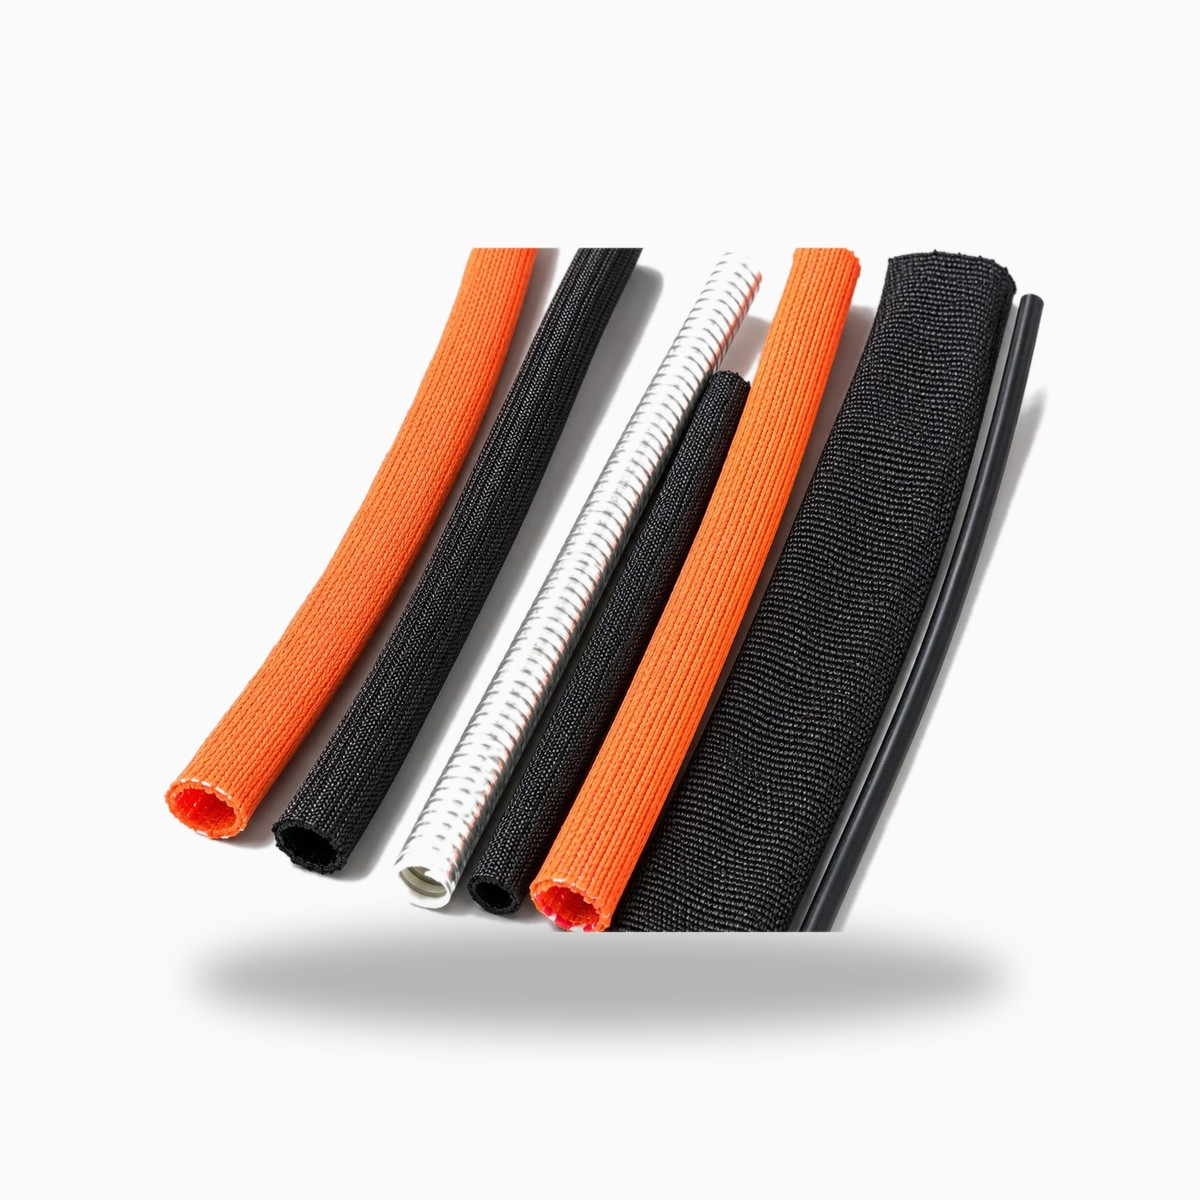
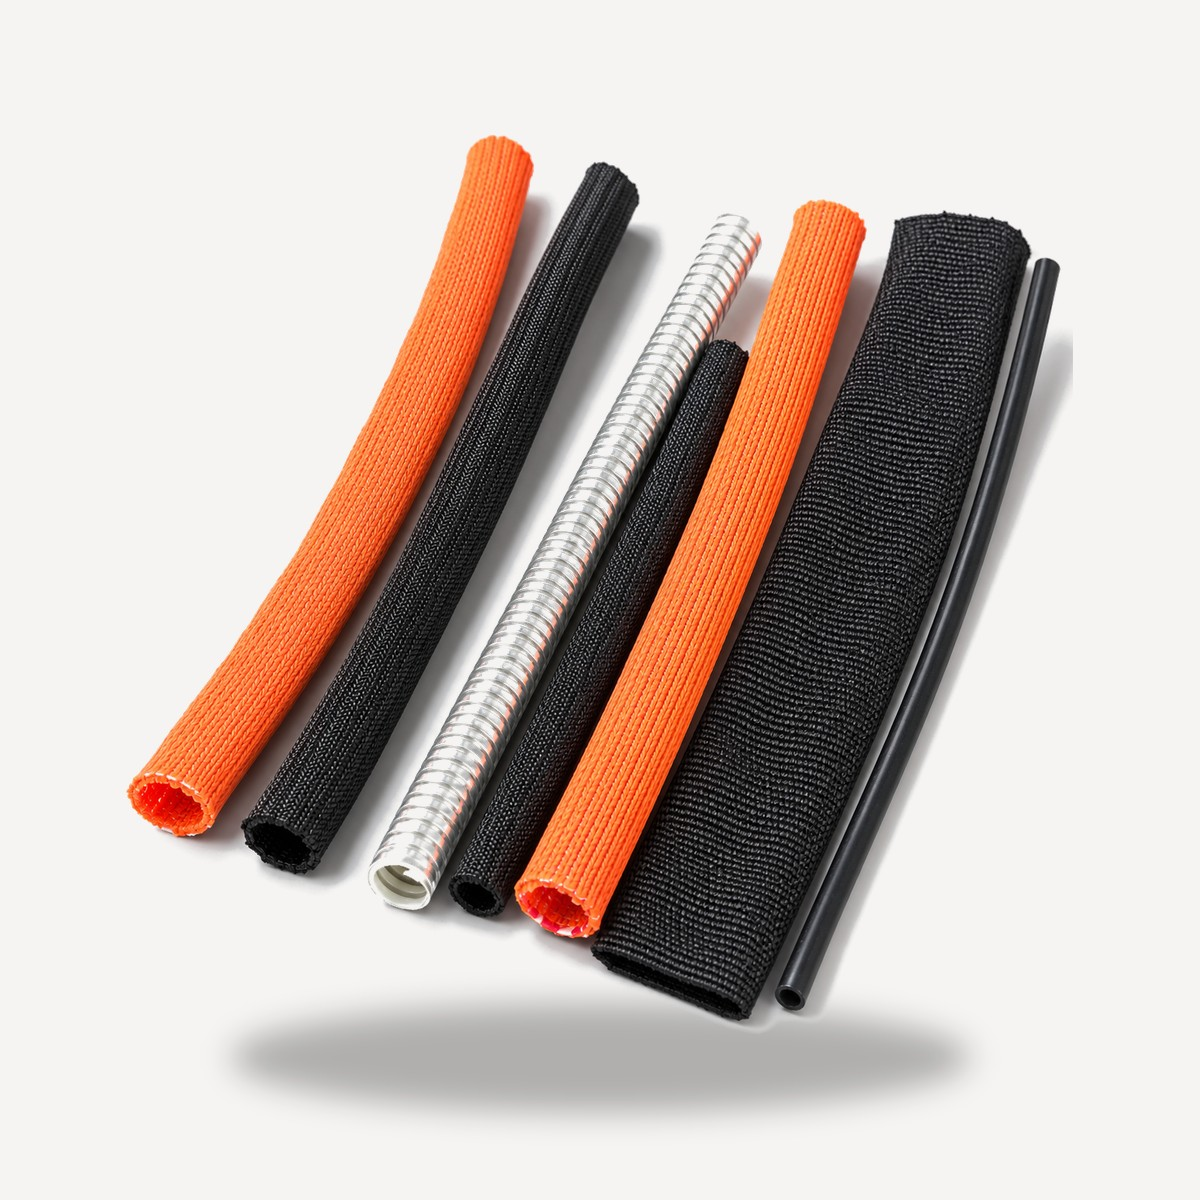
产品页改3列网格+产品图更新为规格书同款设计图
- products.html 改为 3列×2行卡片网格（图+参数表+下载按钮）
- 响应式：桌面3列/平板2列/手机1列
- 4张产品图（绒布/布基/PVC/保护管）替换为规格书同款设计图
- 统一处理为网站格式：1200x1200方图+浅米白底+柔和阴影

diff --git a/products.html b/products.html
@@ -12,13 +12,13 @@
 <header class="site-header"><a class="brand" href="index.html"><img src="assets/img/reals-logo.png" alt="REALS"></a><nav class="desktop-nav"><a href="index.html">Home</a><a class="active" href="products.html">Products</a><a href="manufacturing.html">Capabilities</a><a href="quality.html">Quality</a><a href="index.html#markets">Markets</a><a href="contact.html">Contact</a></nav><div class="header-actions"><button class="lang" style="display:none">EN <span>⌄</span></button><a class="btn btn-small" href="contact.html">Request a Quote</a><button class="menu-toggle" aria-label="Open menu" aria-expanded="false"><span></span><span></span></button></div></header>
 <main><section class="page-hero dark-section"><p class="kicker">Product portfolio</p><h1>Protection materials for every harness environment.</h1><p>Six product categories covering fleece tape, fabric tape, PVC tape, aluminum foil tape, cable clips and ties, and protective sleeving for every harness environment.</p><div class="crumbs"><a href="index.html">Home</a><span>/</span><b>Products</b></div></section>
 <section class="inner-section light-section">
-<article class="product-detail reveal" id="ly6531"><div class="product-detail-media"><img src="assets/img/ly6531-fleece.jpg" alt="LY6531 PET fleece tape"></div><div class="product-detail-copy"><p class="kicker">Noise reduction / Interior harness</p><h2>LY6531 Automotive PET Fleece Tape</h2><p>High-quality PET fleece coated with a high-performance rubber-based hot-melt adhesive. Soft, conformable and hand-tearable for instrument panel, door and main harness applications requiring noise reduction.</p><div class="tech-table"><div>Backing</div><div>Premium PET fleece</div><div>Adhesive</div><div>High-performance rubber-based hot-melt</div><div>Temperature Range</div><div>-40 to +105°C</div><div>Noise Damping</div><div>Yes - squeak &amp; rattle reduction</div><div>VOC / Odor</div><div>Low VOC / low odor</div><div>Standard Dimensions</div><div>19 / 25 / 38 mm x 25 m</div><div>Color</div><div>Black</div></div><div class="download-row"><a href="docs/LY6531_Fleece_Tape_TDS_EN.pdf" target="_blank">Download source TDS</a><a href="contact.html#samples">Request sample</a></div></div></article>
-<article class="product-detail reveal" id="ly6524"><div class="product-detail-media"><img src="assets/img/ly6524-fabric.jpg" alt="LY6524 polyester fabric tape"></div><div class="product-detail-copy"><p class="kicker">Balanced abrasion / General harness</p><h2>LY6524 Polyester Fabric Wire Harness Tape</h2><p>Smooth polyester fabric tape with a synthetic rubber adhesive, providing flexible handling, corrosion resistance and balanced abrasion performance for medium-temperature harness protection.</p><div class="tech-table"><div>Backing</div><div>High-quality polyester fabric</div><div>Adhesive</div><div>Synthetic rubber adhesive</div><div>Temperature Range</div><div>-40 to +125°C</div><div>Abrasion Resistance</div><div>Moderate</div><div>Standard Dimensions</div><div>15 / 19 / 25 mm x 25 m</div><div>Color</div><div>Black</div></div><div class="download-row"><a href="docs/LY6524_Polyester_Fabric_Tape_TDS_EN.pdf" target="_blank">Download source TDS</a><a href="contact.html#samples">Request sample</a></div></div></article>
-
-<article class="product-detail reveal" id="ly6512"><div class="product-detail-media"><img src="assets/img/ly6512-pvc.jpg" alt="LY6512 PVC tape"></div><div class="product-detail-copy"><p class="kicker">Flexible bundling / Color identification</p><h2>LY6512 Automotive PVC Wire Harness Tape</h2><p>High-quality PVC film with water-based adhesive for general wire harness bundling. Flexible, flame-retardant, low-VOC and available in multiple colors and dimensions.</p><div class="tech-table"><div>Backing</div><div>High-quality PVC film</div><div>Adhesive</div><div>Water-based adhesive</div><div>Temperature Range</div><div>-40 to +105°C</div><div>Flame Retardant</div><div>Yes</div><div>VOC</div><div>Low</div><div>Standard Dimensions</div><div>19 / 25 mm x 20 / 25 m</div><div>Color</div><div>Black / colors</div></div><div class="download-row"><a href="docs/LY6512_PVC_Tape_TDS_EN.pdf" target="_blank">Download source TDS</a><a href="contact.html#samples">Confirm temperature grade</a></div></div></article>
-<article class="product-detail reveal" id="ly6632"><div class="product-detail-media"><img src="assets/img/ly6632-foil.jpg" alt="LY6632 aluminum foil fiberglass tape"></div><div class="product-detail-copy"><p class="kicker">Thermal shielding / High-temperature harness</p><h2>LY6632 Aluminum Foil Fiberglass Tape</h2><p>Aluminum foil and high-strength fiberglass backing with high-temperature silicone adhesive for thermal resistance, insulation, interference protection and shielding applications.</p><div class="tech-table"><div>Backing</div><div>Aluminum foil + fiberglass cloth laminate</div><div>Adhesive</div><div>High-performance pressure-sensitive adhesive</div><div>Temperature Range</div><div>-40 to +200°C</div><div>Flame Retardant</div><div>Yes</div><div>VOC / Odor</div><div>Low VOC / low odor</div><div>Standard Dimensions</div><div>25 / 40 / 50 mm x 10 / 20 m</div><div>Color</div><div>Silver gray</div></div><div class="download-row"><a href="docs/LY6632_Aluminum_Foil_Tape_TDS_EN.pdf" target="_blank">Download source TDS</a><a href="contact.html#samples">Request sample</a></div></div></article>
-<article class="product-detail reveal" id="clips-ties"><div class="product-detail-media"><img src="assets/img/clips-ties.jpg" alt="Cable clips and cable ties"></div><div class="product-detail-copy"><p class="kicker">Harness fixing / Cable management</p><h2>Automotive Cable Clips &amp; Cable Ties</h2><p>Complete range of automotive-grade cable clips and cable ties for secure wire harness fixing and bundling. Options for push-mount, adhesive-backed and strap-type fixing across interior, body and engine harness layouts.</p><div class="tech-table"><div>Types</div><div>Push-mount clips / Adhesive clips / Cable ties</div><div>Material</div><div>PA66 / PA6.6 / Nylon</div><div>Temperature</div><div>-40 to +120°C</div><div>Flame retardancy</div><div>UL94 V-2 (V-0 on request)</div><div>Features</div><div>Anti-slip locking · Releasable options</div></div><div class="download-row"><a href="docs/LY3400_Self_Wrap_Sleeve_TDS_EN.pdf" target="_blank">Download TDS</a><a href="contact.html#samples">Request sample</a><a href="contact.html">Request a quote</a></div></div></article>
-<article class="product-detail reveal" id="sleeving"><div class="product-detail-media"><img src="assets/img/sleeving.jpg" alt="Protective sleeving and braided sleeving"></div><div class="product-detail-copy"><p class="kicker">Abrasion protection / Wrap &amp; bundling</p><h2>Protective Sleeving &amp; Braided Sleeving</h2><p>Protective sleeving range for wire harness, hose and cable abrasion protection. Open-weave and braided sleeving options that are flexible, expandable and easy to install over existing harnesses.</p><div class="tech-table"><div>Material</div><div>Polyester monofilament + polyester multifilament</div><div>Construction</div><div>Woven, heat-set, self-wrapping open sleeve</div><div>Temperature Range</div><div>-40 to +150°C</div><div>Abrasion Resistance</div><div>Yes</div><div>Standard Dimensions</div><div>ID 6 / 10 / 16 / 22 mm x 10 m/roll</div><div>Color</div><div>Orange</div></div><div class="download-row"><a href="contact.html#samples">Request sample</a><a href="contact.html">Request a quote</a></div></div></article>
-</section>
+<div class="product-grid-3">
+<article class="product-card-3 reveal" id="ly6531"><div class="pc-media"><img src="assets/img/ly6531-fleece.jpg" alt="LY6531 PET fleece tape"></div><div class="pc-body"><p class="kicker">Noise reduction / Interior</p><h3>LY6531<br>PET Fleece Tape</h3><div class="tech-table"><div>Backing</div><div>Premium PET fleece</div><div>Adhesive</div><div>Rubber-based hot-melt</div><div>Temperature</div><div>-40 to +105°C</div><div>Noise Damping</div><div>Squeak &amp; rattle reduction</div></div><div class="download-row"><a href="docs/LY6531_Fleece_Tape_TDS_EN.pdf" target="_blank">Download TDS</a><a href="contact.html#samples">Request sample</a></div></div></article>
+<article class="product-card-3 reveal delay-1" id="ly6524"><div class="pc-media"><img src="assets/img/ly6524-fabric.jpg" alt="LY6524 polyester fabric tape"></div><div class="pc-body"><p class="kicker">Balanced abrasion / General</p><h3>LY6524<br>Polyester Fabric Tape</h3><div class="tech-table"><div>Backing</div><div>Polyester fabric</div><div>Adhesive</div><div>Synthetic rubber</div><div>Temperature</div><div>-40 to +125°C</div><div>Abrasion Resistance</div><div>Moderate</div></div><div class="download-row"><a href="docs/LY6524_Polyester_Fabric_Tape_TDS_EN.pdf" target="_blank">Download TDS</a><a href="contact.html#samples">Request sample</a></div></div></article>
+<article class="product-card-3 reveal delay-2" id="ly6512"><div class="pc-media"><img src="assets/img/ly6512-pvc.jpg" alt="LY6512 PVC tape"></div><div class="pc-body"><p class="kicker">Flexible bundling / Colors</p><h3>LY6512<br>PVC Harness Tape</h3><div class="tech-table"><div>Backing</div><div>PVC film</div><div>Adhesive</div><div>Water-based</div><div>Temperature</div><div>-40 to +105°C</div><div>Flame Retardant</div><div>Yes</div></div><div class="download-row"><a href="docs/LY6512_PVC_Tape_TDS_EN.pdf" target="_blank">Download TDS</a><a href="contact.html#samples">Request sample</a></div></div></article>
+<article class="product-card-3 reveal" id="ly6632"><div class="pc-media"><img src="assets/img/ly6632-foil.jpg" alt="LY6632 aluminum foil fiberglass tape"></div><div class="pc-body"><p class="kicker">Thermal shielding / High temp</p><h3>LY6632<br>Aluminum Foil Tape</h3><div class="tech-table"><div>Backing</div><div>Aluminum foil + fiberglass</div><div>Adhesive</div><div>Pressure-sensitive</div><div>Temperature</div><div>-40 to +200°C</div><div>Flame Retardant</div><div>Yes</div></div><div class="download-row"><a href="docs/LY6632_Aluminum_Foil_Tape_TDS_EN.pdf" target="_blank">Download TDS</a><a href="contact.html#samples">Request sample</a></div></div></article>
+<article class="product-card-3 reveal delay-1" id="clips-ties"><div class="pc-media"><img src="assets/img/clips-ties.jpg" alt="Cable clips and cable ties"></div><div class="pc-body"><p class="kicker">Harness fixing / Management</p><h3>Cable Clips &amp; Ties</h3><div class="tech-table"><div>Types</div><div>Push-mount / Adhesive / Ties</div><div>Material</div><div>PA66 / Nylon</div><div>Temperature</div><div>-40 to +120°C</div><div>Flame Retardancy</div><div>UL94 V-2 (V-0 on request)</div></div><div class="download-row"><a href="contact.html#samples">Request sample</a><a href="contact.html">Request a quote</a></div></div></article>
+<article class="product-card-3 reveal delay-2" id="sleeving"><div class="pc-media"><img src="assets/img/sleeving.jpg" alt="Protective sleeving"></div><div class="pc-body"><p class="kicker">Abrasion protection / Wrap</p><h3>Protective Sleeving</h3><div class="tech-table"><div>Material</div><div>Polyester monofilament</div><div>Construction</div><div>Woven, self-wrapping</div><div>Temperature</div><div>-40 to +150°C</div><div>Dimensions</div><div>ID 6 / 10 / 16 / 22 mm</div></div><div class="download-row"><a href="docs/LY3400_Self_Wrap_Sleeve_TDS_EN.pdf" target="_blank">Download TDS</a><a href="contact.html#samples">Request sample</a></div></div></article>
+</div></section>
 <section class="cta dark-section"><div class="cta-inner reveal"><p class="kicker">Need help selecting a tape?</p><h2>Send us the application conditions.</h2><p>Share the harness location, temperature, abrasion, noise, dimensions and estimated annual volume. We will help identify a suitable product route.</p><div><a class="btn" href="contact.html">Request a Quote</a><a class="btn btn-ghost" href="contact.html#samples">Request Samples</a></div></div></section></main>
 <footer class="site-footer"><div class="footer-brand"><img src="assets/img/reals-logo.png" alt="REALS"><p>Automotive wire harness protection materials for global B2B customers.</p></div><div><h4>Products</h4><a href="#ly6531">Fleece tape</a><a href="#ly6524">Fabric tape</a><a href="#ly6512">PVC tape</a><a href="#ly6632">Aluminum foil tape</a><a href="#clips-ties">Cable clips &amp; ties</a><a href="#sleeving">Sleeving</a></div><div><h4>Company</h4><a href="manufacturing.html">Capabilities</a><a href="quality.html">Quality</a><a href="contact.html">Contact</a></div><div><h4>Contact</h4><a href="mailto:yu.ruihong@tjlanyu.com.cn">yu.ruihong@tjlanyu.com.cn</a><a href="https://www.realsauto.com">www.realsauto.com</a><span>Tianjin, China</span></div><div class="footer-bottom"><span>© 2026 REALS.</span><span class="footer-social"><a href="https://www.linkedin.com/" target="_blank" rel="noopener">LinkedIn</a> · <a href="https://wa.me/" target="_blank" rel="noopener">WhatsApp</a></span></div></footer><script src="assets/js/main.js"></script></body></html>

diff --git a/assets/css/styles.css b/assets/css/styles.css
@@ -47,9 +47,9 @@ h1{font-size:clamp(52px,6.4vw,108px);line-height:.94;letter-spacing:-.052em;text
 .site-footer{background:#040c12;padding:70px 8vw 30px;display:grid;grid-template-columns:1.8fr repeat(3,1fr);gap:50px;color:#b3c0c2}.footer-brand img{width:230px;filter:brightness(0) invert(1);margin-bottom:20px}.footer-brand p{max-width:310px;font-size:13px}.site-footer h4{color:#fff;text-transform:uppercase;font-size:11px;letter-spacing:.14em;margin:0 0 18px}.site-footer a,.site-footer span{display:block;font-size:12px;margin:8px 0}.footer-bottom{grid-column:1/-1;border-top:1px solid var(--line);padding-top:25px;display:flex;justify-content:space-between;margin-top:25px}.footer-bottom span{font-size:10px;color:#728487}
 /* Inner pages */
 .page-hero{padding:170px 8vw 90px;min-height:520px;position:relative;overflow:hidden}.page-hero:after{content:"";position:absolute;right:-10%;top:20%;width:50%;height:80%;border:1px solid rgba(120,216,27,.2);border-radius:50%}.page-hero .kicker,.page-hero h1,.page-hero p{position:relative;z-index:2}.page-hero h1{max-width:950px;text-transform:none}.page-hero p{max-width:690px;color:#9fb0b3;font-size:17px}.crumbs{margin-top:30px;display:flex;gap:10px;color:#708488;font-size:10px;text-transform:uppercase;letter-spacing:.12em}.crumbs b{color:var(--green)}
-.inner-section{padding:95px 8vw}.product-detail{display:grid;grid-template-columns:.85fr 1.15fr;gap:6vw;align-items:center;padding:70px 0;border-bottom:1px solid rgba(7,19,29,.13)}.product-detail:nth-child(even) .product-detail-media{order:2}.product-detail-media{background:linear-gradient(145deg,#fff,#dfe7e1);aspect-ratio:1/1;display:grid;place-items:center;overflow:hidden}.product-detail-media img{width:100%;height:100%;object-fit:contain;object-position:center}.product-detail-copy h2{font-size:44px;line-height:1.05;margin:12px 0}.product-detail-copy p{color:#526167}.tech-table{display:grid;grid-template-columns:1fr 1fr;border-top:1px solid rgba(7,19,29,.18);margin:25px 0}.tech-table div{padding:12px 0;border-bottom:1px solid rgba(7,19,29,.13);font-size:12px}.tech-table div:nth-child(odd){color:#66777b}.download-row{display:flex;gap:10px;flex-wrap:wrap}.download-row a{font-size:10px;text-transform:uppercase;letter-spacing:.12em;border:1px solid rgba(7,19,29,.24);padding:10px 13px}.download-row a:hover{background:var(--ink);color:#fff}
+.inner-section{padding:95px 8vw}.product-grid-3{display:grid;grid-template-columns:repeat(3,1fr);gap:20px}.product-card-3{border:1px solid rgba(7,19,29,.14);background:#fff;box-shadow:0 10px 30px rgba(7,19,29,.06);transition:transform .35s,box-shadow .35s}.product-card-3:hover{transform:translateY(-6px);box-shadow:0 18px 44px rgba(7,19,29,.14)}.pc-media{aspect-ratio:1/1;background:linear-gradient(145deg,#f6f8f5,#dfe6e1);overflow:hidden}.pc-media img{width:100%;height:100%;object-fit:contain;transition:.5s}.product-card-3:hover img{transform:scale(1.05)}.pc-body{padding:22px 24px 24px}.pc-body .kicker{margin-bottom:10px}.pc-body h3{font-size:19px;line-height:1.15;margin:0 0 14px}.pc-body .tech-table{margin:0 0 16px}.pc-body .tech-table div{padding:8px 0;border-bottom:1px solid rgba(7,19,29,.09);font-size:11px}.pc-body .tech-table div:nth-child(odd){color:#66777b}.pc-body .download-row{display:flex;gap:10px;flex-wrap:wrap}.pc-body .download-row a{font-size:10px;text-transform:uppercase;letter-spacing:.12em;border:1px solid rgba(7,19,29,.24);padding:9px 12px}.pc-body .download-row a:hover{background:var(--ink);color:#fff}.tech-table{display:grid;grid-template-columns:1fr 1fr;border-top:1px solid rgba(7,19,29,.18);margin:25px 0}.tech-table div{padding:12px 0;border-bottom:1px solid rgba(7,19,29,.13);font-size:12px}.tech-table div:nth-child(odd){color:#66777b}.download-row{display:flex;gap:10px;flex-wrap:wrap}.download-row a{font-size:10px;text-transform:uppercase;letter-spacing:.12em;border:1px solid rgba(7,19,29,.24);padding:10px 13px}.download-row a:hover{background:var(--ink);color:#fff}
 .cap-grid{display:grid;grid-template-columns:repeat(3,1fr);gap:18px}.cap-card{background:#0c202a;min-height:360px;position:relative;overflow:hidden}.cap-card img{width:100%;height:250px;object-fit:cover;filter:saturate(.65)}.cap-card div{padding:22px}.cap-card small{color:var(--green);text-transform:uppercase;letter-spacing:.14em}.cap-card h3{margin:7px 0 0;font-size:21px}.lab-grid{display:grid;grid-template-columns:repeat(4,1fr);gap:15px}.lab-grid article{background:#fff;color:var(--ink);padding:10px}.lab-grid img{height:210px;width:100%;object-fit:cover}.lab-grid h3{font-size:15px;margin:13px 5px 4px}.lab-grid p{font-size:11px;color:#627176;margin:0 5px 10px}.quality-page-grid{display:grid;grid-template-columns:repeat(3,1fr);gap:25px}.quality-cert{background:#fff;color:var(--ink);padding:18px;box-shadow:var(--shadow)}.quality-cert img{height:520px;width:100%;object-fit:contain;background:#eef1ef}.quality-cert h3{margin-bottom:4px}.quality-cert p{font-size:12px;color:#5f6e73}.quality-cert a{display:inline-block;color:#1c6f35;font-size:10px;text-transform:uppercase;letter-spacing:.12em;font-weight:700}
 .contact-layout{display:grid;grid-template-columns:.75fr 1.25fr;gap:7vw}.contact-info h2{font-size:50px;line-height:1.05}.contact-info p{color:#516066}.contact-card{margin-top:35px;border-top:1px solid rgba(7,19,29,.15)}.contact-card div{padding:17px 0;border-bottom:1px solid rgba(7,19,29,.15)}.contact-card small{display:block;text-transform:uppercase;letter-spacing:.14em;color:#7c8b90;font-size:9px}.contact-card a,.contact-card span{font-size:15px}.inquiry-form{background:#0b2029;padding:42px}.form-grid{display:grid;grid-template-columns:1fr 1fr;gap:16px}.field{display:flex;flex-direction:column;gap:7px}.field.full{grid-column:1/-1}.field label{font-size:9px;text-transform:uppercase;letter-spacing:.14em;color:#9fb0b3}.field input,.field select,.field textarea{background:rgba(255,255,255,.045);border:1px solid rgba(255,255,255,.16);color:#fff;padding:13px;outline:none}.field select option{color:#111}.field textarea{min-height:130px;resize:vertical}.form-note{font-size:10px;color:#7e9195;margin-top:15px}.form-status{display:none;color:var(--green);margin-top:14px;font-size:12px}
 .reveal{opacity:0;transform:translateY(24px);transition:opacity .8s ease,transform .8s ease}.reveal.in-view{opacity:1;transform:none}.delay-1{transition-delay:.12s}.delay-2{transition-delay:.24s}.delay-3{transition-delay:.36s}
-@media(max-width:1100px){.site-header{grid-template-columns:220px 1fr auto}.desktop-nav{display:none}.menu-toggle{display:block}.hero{min-height:820px}.vertical-rail.right{display:none}.hero-badges{display:none}.product-grid{grid-template-columns:repeat(2,1fr)}.product-card:nth-child(2n){border-right:0}.product-card:nth-last-child(-n+2){border-bottom:0}.perf-grid{grid-template-columns:1fr 1fr}.perf-card:nth-child(2){border-right:0}.perf-card:nth-child(-n+2){border-bottom:1px solid var(--line)}.process-strip{grid-template-columns:1fr 1fr}.process-card:nth-child(2){border-right:0}.quality-preview,.markets,.application-layout{grid-template-columns:1fr}.cert-grid{max-width:850px}.cap-grid{grid-template-columns:1fr 1fr}.lab-grid{grid-template-columns:1fr 1fr}}
-@media(max-width:760px){.site-header{height:68px;padding:0 18px;grid-template-columns:1fr auto}.brand img{width:155px}.header-actions .btn,.lang{display:none}.hero{height:auto;min-height:780px;padding:130px 24px 70px}.hero-visual{background-position:62% center}.vertical-rail{display:none}.hero-content{margin:0}.hero-content>p{font-size:15px}.hero-actions{flex-direction:column;align-items:flex-start}.hero-meta{gap:22px;flex-wrap:wrap}.hero-meta div{min-width:110px}.scroll-cue{left:24px}.section{padding:82px 24px}.vertical-label{display:none}.intro{grid-template-columns:1fr}.section-head{align-items:flex-start;flex-direction:column}.product-grid{grid-template-columns:1fr}.product-card{border-right:0!important;border-bottom:1px solid var(--line)!important}.product-card:last-child{border-bottom:0!important}.hotspot{display:none}.performance{padding:82px 24px}.perf-grid{grid-template-columns:1fr}.perf-card{border-right:0;border-bottom:1px solid var(--line)!important;min-height:330px}.perf-card:last-child{border-bottom:0!important}.process-strip{grid-template-columns:1fr}.process-card{border-right:0;border-bottom:1px solid rgba(7,19,29,.14);min-height:350px}.quality-preview{padding:82px 24px}.cert-grid{grid-template-columns:1fr}.cert-grid img{height:360px}.cta{padding:90px 24px}.cta-inner>div{flex-direction:column;align-items:flex-start}.site-footer{grid-template-columns:1fr 1fr;padding:60px 24px 25px}.footer-brand{grid-column:1/-1}.footer-bottom{flex-direction:column}.page-hero{padding:130px 24px 70px}.inner-section{padding:70px 24px}.product-detail,.contact-layout{grid-template-columns:1fr}.product-detail:nth-child(even) .product-detail-media{order:0}.cap-grid,.lab-grid,.quality-page-grid{grid-template-columns:1fr}.quality-cert img{height:430px}.form-grid{grid-template-columns:1fr}.inquiry-form{padding:28px 20px}.field.full{grid-column:auto}}
+@media(max-width:1100px){.product-grid-3{grid-template-columns:repeat(2,1fr)}.site-header{grid-template-columns:220px 1fr auto}.desktop-nav{display:none}.menu-toggle{display:block}.hero{min-height:820px}.vertical-rail.right{display:none}.hero-badges{display:none}.product-grid{grid-template-columns:repeat(2,1fr)}.product-card:nth-child(2n){border-right:0}.product-card:nth-last-child(-n+2){border-bottom:0}.perf-grid{grid-template-columns:1fr 1fr}.perf-card:nth-child(2){border-right:0}.perf-card:nth-child(-n+2){border-bottom:1px solid var(--line)}.process-strip{grid-template-columns:1fr 1fr}.process-card:nth-child(2){border-right:0}.quality-preview,.markets,.application-layout{grid-template-columns:1fr}.cert-grid{max-width:850px}.cap-grid{grid-template-columns:1fr 1fr}.lab-grid{grid-template-columns:1fr 1fr}}
+@media(max-width:760px){.product-grid-3{grid-template-columns:1fr}.site-header{height:68px;padding:0 18px;grid-template-columns:1fr auto}.brand img{width:155px}.header-actions .btn,.lang{display:none}.hero{height:auto;min-height:780px;padding:130px 24px 70px}.hero-visual{background-position:62% center}.vertical-rail{display:none}.hero-content{margin:0}.hero-content>p{font-size:15px}.hero-actions{flex-direction:column;align-items:flex-start}.hero-meta{gap:22px;flex-wrap:wrap}.hero-meta div{min-width:110px}.scroll-cue{left:24px}.section{padding:82px 24px}.vertical-label{display:none}.intro{grid-template-columns:1fr}.section-head{align-items:flex-start;flex-direction:column}.product-grid{grid-template-columns:1fr}.product-card{border-right:0!important;border-bottom:1px solid var(--line)!important}.product-card:last-child{border-bottom:0!important}.hotspot{display:none}.performance{padding:82px 24px}.perf-grid{grid-template-columns:1fr}.perf-card{border-right:0;border-bottom:1px solid var(--line)!important;min-height:330px}.perf-card:last-child{border-bottom:0!important}.process-strip{grid-template-columns:1fr}.process-card{border-right:0;border-bottom:1px solid rgba(7,19,29,.14);min-height:350px}.quality-preview{padding:82px 24px}.cert-grid{grid-template-columns:1fr}.cert-grid img{height:360px}.cta{padding:90px 24px}.cta-inner>div{flex-direction:column;align-items:flex-start}.site-footer{grid-template-columns:1fr 1fr;padding:60px 24px 25px}.footer-brand{grid-column:1/-1}.footer-bottom{flex-direction:column}.page-hero{padding:130px 24px 70px}.inner-section{padding:70px 24px}.product-detail,.contact-layout{grid-template-columns:1fr}.product-detail:nth-child(even) .product-detail-media{order:0}.cap-grid,.lab-grid,.quality-page-grid{grid-template-columns:1fr}.quality-cert img{height:430px}.form-grid{grid-template-columns:1fr}.inquiry-form{padding:28px 20px}.field.full{grid-column:auto}}
